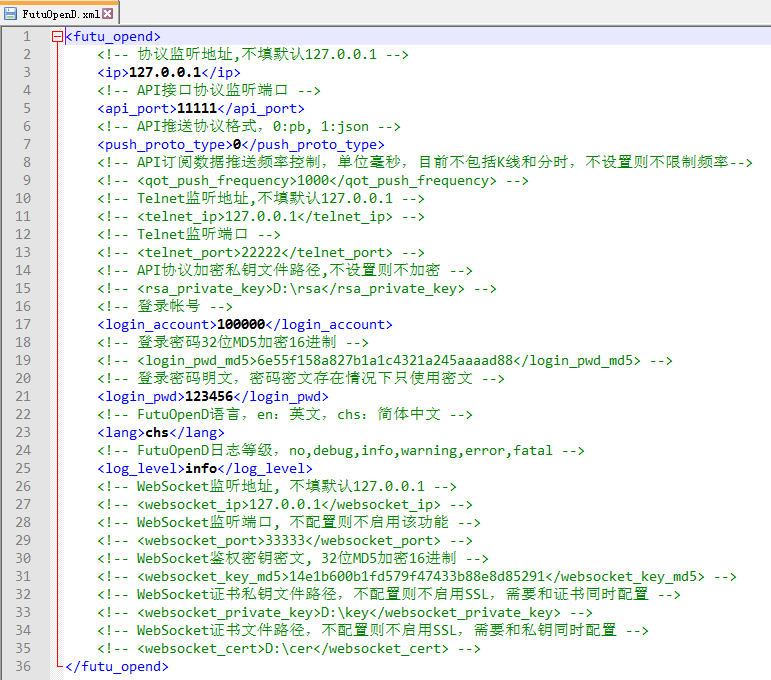
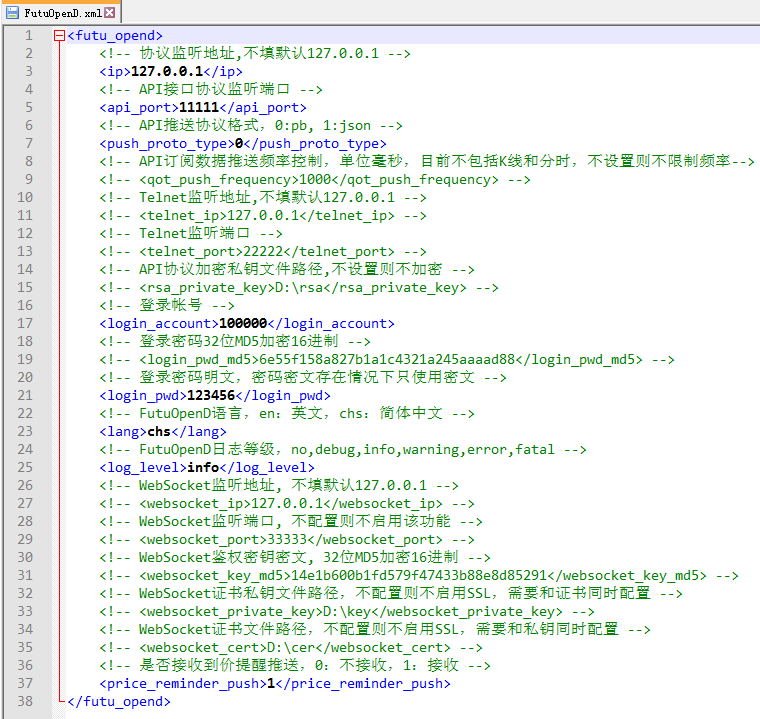
JS C++ 文档

Changed region(s): [[0.0, 0.0, 1.0, 1.0]]

diff --git a/doc_maker/source/conf.py b/doc_maker/source/conf.py
@@ -69,9 +69,9 @@ author = 'futu'
 # built documents.
 #
 # The short X.Y version.
-version = '3.18'
+version = '3.19'
 # The full version, including alpha/beta/rc tags.
-release = '3.18'
+release = '3.19'
 
 # The language for content autogenerated by Sphinx. Refer to documentation
 # for a list of supported languages.

diff --git a/doc_maker/source/intro/FutuOpenDGuide.rst b/doc_maker/source/intro/FutuOpenDGuide.rst
@@ -82,24 +82,25 @@ FutuOpenD配置
   ========================   ==================================================================================================   ================================================
   键值                       说明                                                                                                 是否可选配置项
   ========================   ==================================================================================================   ================================================
-  ip                         监听地址																			                  是，不设置则默认127.0.0.1	
+  ip                         监听地址                                                                                             是，不设置则默认127.0.0.1    
   api_port                   API协议接收端口                                                                                      是，可以命令行指定
   push_proto_type            API协议支持PB以及Json格式，PB：0，Json：1，推送类协议通过该配置决定包体格式                          是，不设置则默认PB格式
   qot_push_frequency         API订阅数据推送频率控制，单位毫秒，目前不包括K线和分时                                               是，不设置则不限制频率
   rsa_private_key            API协议RSA加密私钥（PKCS#1）文件绝对路径                                                             是，不设置则协议不加密
-  telnet_ip                  远程操作命令监听地址		                                                                          是，不设置则默认127.0.0.1	
+  telnet_ip                  远程操作命令监听地址                                                                                 是，不设置则默认127.0.0.1    
   telnet_port                远程操作命令监听端口                                                                                 是，不设置则不启用远程命令
   login_account              登录帐号                                                                                             是，可以使用证书登录或命令行输入
   login_pwd                  登录密码明文                                                                                         是，可以使用密文、证书登录或命令行输入
   login_pwd_md5              登录密码密文（32位MD5加密16进制），密文明文都存在情况下，只使用密文                                  是，可以使用明文、证书登录或命令行输入
   login_cert_file            证书文件绝对路径，除帐号密码外的另一种登录方式输入，若同时存在帐号密码登录配置项，只使用证书登录     是，可以使用帐号密码登录或命令行输入
   log_level                  日志级别，可填no，debug，info，warning，error，fatal                                                 是，默认info级别
-  simulate_trade		     是否启用模拟交易，关闭模拟交易可节省少量资源使用，可填enable，disable								  是，默认启用
+  simulate_trade             是否启用模拟交易，关闭模拟交易可节省少量资源使用，可填enable，disable                                是，默认启用
   websocket_ip               API协议监听地址，可选127.0.0.1（监听来自本地的连接）以及0.0.0.0（监听来自所有网卡的连接）            是，不设置则默认127.0.0.1 
   websocket_port             WebSocket服务监听端口                                                                                是，不设置则不启用该功能  
   websocket_private_key      WebSocket证书私钥文件路径，私钥不可设置密码，不配置则不启用SSL，需要和证书同时配置                   是，不设置则不启用SSL
   websocket_cert             WebSocket证书文件路径，不配置则不启用SSL，需要和私钥同时配置                                         是，不设置则不启用SSL
   websocket_key_md5          密钥密文（32位MD5加密16进制），用于JS接口连接时用于判断是否可信连接                                  是，不设置则不做验证
+  price_reminder_push        是否接收到价提醒推送，0：不接收，1：接收                                                             是，默认会推送
   ========================   ==================================================================================================   ================================================
 
 可视化FutuOpenD  
@@ -175,14 +176,15 @@ FutuOpenD配置
   lang                       FutuOpenD语言，en：英文，chs：简体中文                                                               是，不设置则默认简体中文
   api_port                   API协议接收端口                                                                                      是，不设置则使用配置文件配置项
   help                       输出启动命令行参数然后退出程序                                                                       是，不设置则正常启动FutuOpenD
-  log_level                  日志级别，可填no，debug，info，warning，error，fatal                                                      是，默认info级别
+  log_level                  日志级别，可填no，debug，info，warning，error，fatal                                                 是，默认info级别
   no_monitor                 是否启动守护进程，启动：0，不启动：1                                                                 是，默认带守护进程启动
-  simulate_trade             是否启用模拟交易，关闭模拟交易可节省少量资源使用，可填enable，disable                                 是，默认启用
+  simulate_trade             是否启用模拟交易，关闭模拟交易可节省少量资源使用，可填enable，disable                                是，默认启用
   websocket_ip               API协议监听地址，可选127.0.0.1（监听来自本地的连接）以及0.0.0.0（监听来自所有网卡的连接）            是，不设置则默认127.0.0.1    
   websocket_port             WebSocket服务监听端口                                                                                是，不设置则不启用该功能
   websocket_private_key      WebSocket证书私钥文件路径，不配置则不启用SSL，需要和证书同时配置                                     是，不设置则不启用SSL
   websocket_cert             WebSocket证书文件路径，不配置则不启用SSL，需要和私钥同时配置                                         是，不设置则不启用SSL
   websocket_key_md5          密钥密文（32位MD5加密16进制），用于JS接口连接时用于判断是否可信连接                                  是，不设置则不做验证
+  price_reminder_push        是否接收到价提醒推送，0：不接收，1：接收                                                             是，默认会推送
   ========================   ==================================================================================================   ================================================
 
 --------------

diff --git a/doc_maker/source/javascript/Quote_API.rst b/doc_maker/source/javascript/Quote_API.rst
@@ -38,16 +38,16 @@
   .. _GetUserSecurity: ../protocol/quote_protocol.html#qot-getusersecurity-proto-3213
   .. _ModifyUserSecurity: ../protocol/quote_protocol.html#qot-modifyusersecurity-proto-3214
   .. _RequestTradeDate: ../protocol/quote_protocol.html#qot-requesttradedate-proto-3219
-  .. _Notify: ../protocol/base_define.html#notify-proto-1003
-  .. _GetCodeChange: ../protocol/quote_protocol.html#qot-getcodechange-proto-3216
-  .. _GetIpoList: ../protocol/quote_protocol.html#qot-getipolist-proto-3217ipo
-  .. _GetFutureInfo: ../protocol/quote_protocol.html#qot-getfutureinfo-proto-3218
-  .. _UpdateBasicQot: ../protocol/quote_protocol.html#qot-updatebasicqot-proto-3005
-  .. _UpdateKL: ../protocol/quote_protocol.html#qot-updatekl-proto-3007k
-  .. _UpdateRT: ../protocol/quote_protocol.html#qot-updatert-proto-3009
-  .. _UpdateTicker: ../protocol/quote_protocol.html#qot-updateticker-proto-3011
-  .. _UpdateOrderBook: ../protocol/quote_protocol.html#qot-updateorderbook-proto-3013
-  .. _UpdateBroker: ../protocol/quote_protocol.html#qot-updatebroker-proto-3015
+  .. _SetPriceReminder: ../protocol/quote_protocol.html#qot-setpricereminder-proto-3220
+  .. _GetPriceReminder: ../protocol/quote_protocol.html#qot-getpricereminder-proto-3221
+  .. _OnPush_Notify: ../protocol/base_define.html#notify-proto-1003
+  .. _OnPush_UpdateBasicQot: ../protocol/quote_protocol.html#qot-updatebasicqot-proto-3005
+  .. _OnPush_UpdateKL: ../protocol/quote_protocol.html#qot-updatekl-proto-3007k
+  .. _OnPush_UpdateRT: ../protocol/quote_protocol.html#qot-updatert-proto-3009
+  .. _OnPush_UpdateTicker: ../protocol/quote_protocol.html#qot-updateticker-proto-3011
+  .. _OnPush_UpdateOrderBook: ../protocol/quote_protocol.html#qot-updateorderbook-proto-3013
+  .. _OnPush_UpdateBroker: ../protocol/quote_protocol.html#qot-updatebroker-proto-3015
+  .. _OnPush_UpdatePriceReminder: ../protocol/quote_protocol.html#qot-updatepricereminder-proto-3019
   
 ---------------------------------------------------
 
@@ -89,6 +89,8 @@ GetIpolist_                         获取ipo数据
 GetCodeChange_                      获取股票代码变更
 GetFutureInfo_                      获取期货合约资料
 RequestTradeDate_                   获取市场交易日，在线拉取不在本地计算
+SetPriceReminder_                   设置到价提醒
+GetPriceReminder_                   获取到价提醒
 ================================    ==============================================
 
 

diff --git a/doc_maker/source/cpp/qot.rst b/doc_maker/source/cpp/qot.rst
@@ -44,6 +44,8 @@
   .. _GetIpoList: ../protocol/quote_protocol.html#qot-getipolist-proto-3217ipo
   .. _GetFutureInfo: ../protocol/quote_protocol.html#qot-getfutureinfo-proto-3218
   .. _RequestTradeDate: ../protocol/quote_protocol.html#qot-requesttradedate-proto-3219
+  .. _SetPriceReminder: ../protocol/quote_protocol.html#qot-setpricereminder-proto-3220
+  .. _GetPriceReminder: ../protocol/quote_protocol.html#qot-getpricereminder-proto-3221
   .. _OnPush_Notify: ../protocol/base_define.html#notify-proto-1003
   .. _OnPush_UpdateBasicQot: ../protocol/quote_protocol.html#qot-updatebasicqot-proto-3005
   .. _OnPush_UpdateKL: ../protocol/quote_protocol.html#qot-updatekl-proto-3007k
@@ -51,7 +53,7 @@
   .. _OnPush_UpdateTicker: ../protocol/quote_protocol.html#qot-updateticker-proto-3011
   .. _OnPush_UpdateOrderBook: ../protocol/quote_protocol.html#qot-updateorderbook-proto-3013
   .. _OnPush_UpdateBroker: ../protocol/quote_protocol.html#qot-updatebroker-proto-3015
-  
+  .. _OnPush_UpdatePriceReminder: ../protocol/quote_protocol.html#qot-updatepricereminder-proto-3019
 ---------------------------------------------------
 主要函数列表
 ---------------
@@ -94,6 +96,8 @@ GetIpolist_                         获取ipo数据                             
 GetCodeChange_                      获取股票代码变更                                   OnReply_GetCodeChange
 GetFutureInfo_                      获取期货合约资料                                   OnReply_GetFutureInfo
 RequestTradeDate_                   获取市场交易日，在线拉取不在本地计算               OnReply_RequestTradeDate
+SetPriceReminder_                   设置到价提醒                                       OnReply_SetPriceReminder
+GetPriceReminder_                   获取到价提醒                                       OnReply_GetPriceReminder
 ================================    ==============================================   ==============================
 
 FTSPI_Qot行情推送接收接口函数
@@ -108,5 +112,6 @@ OnPush_UpdateRT_                       推送分时
 OnPush_UpdateTicker_                   推送逐笔
 OnPush_UpdateOrderBook_                推送买卖盘
 OnPush_UpdateBroker_                   推送经纪队列
+OnPush_UpdatePriceReminder_            推送到价提醒
 ==================================    ================================================= 
 

diff --git a/doc_maker/source/protocol/quote_protocol.rst b/doc_maker/source/protocol/quote_protocol.rst
@@ -2485,7 +2485,6 @@
 	
 ------------------------------------------------------------------------
 
-
 `Qot_GetPriceReminder.proto <https://github.com/FutunnOpen/py-futu-api/tree/master/futu/common/pb/Qot_GetPriceReminder.proto>`_ - 3221获取到价提醒
 ------------------------------------------------------------------------------------------------------------------------------------------------------------------
 
@@ -2547,3 +2546,48 @@
 	* 提醒类型参考 `PriceReminderType <base_define.html#priceremindertype>`_
 	* 提醒频率类型参考 `PriceReminderFreq <base_define.html#pricereminderfreq>`_
 	* 限频接口：30秒内最多10次	
+	
+	
+`Qot_UpdatePriceReminder.proto <https://github.com/FutunnOpen/py-futu-api/tree/master/futu/common/pb/Qot_UpdatePriceReminder.proto>`_ - 3221获取到价提醒
+------------------------------------------------------------------------------------------------------------------------------------------------------------------
+
+.. code-block:: protobuf
+
+	syntax = "proto2";
+	package Qot_UpdatePriceReminder;
+	option java_package = "com.futu.openapi.pb";
+
+	import "Common.proto";
+	import "Qot_Common.proto";
+
+	enum MarketStatus
+	{
+		MarketStatus_Unknow = 0;
+		MarketStatus_Open = 1; // 盘中
+		MarketStatus_USPre = 2;  // 美股盘前
+		MarketStatus_USAfter = 3; // 美股盘后
+	}
+
+	message S2C
+	{
+		required Qot_Common.Security security = 1; //股票
+		required double price = 2; //价格
+		required double changeRate = 3; //涨跌幅
+		required int32 marketStatus = 4; //市场状态
+		required string content = 5; //内容
+		required string note = 6; //备注
+	}
+
+	message Response
+	{
+		required int32 retType = 1 [default = -400]; //RetType,返回结果
+		optional string retMsg = 2;
+		optional int32 errCode = 3;
+		
+		optional S2C s2c = 4;
+	}
+
+
+.. note::
+	
+	* 股票结构参考 `Security <base_define.html#security>`_

diff --git a/doc_maker/source/api/Quote_API.rst b/doc_maker/source/api/Quote_API.rst
@@ -2609,15 +2609,15 @@ on_recv_rsp
  
  成功时返回(RET_OK, '', data), data为DataFrame类型，字段如下
     
-    =========================   ==================   ========================================
-    参数                         类型                 说明
-    =========================   ==================   ========================================
-    code                        str                  股票代码
-    price                       float                当前价格
-    change_rate                 str                  当前涨跌幅
-    market_status               str                  触发的时间段，盘前、盘中、盘后
-    content                     str                  到价提醒文字内容
-    note                        str                  备注，最多10个字符
-    =========================   ==================   ========================================
+    =========================   =========================   ========================================
+    参数                         类型                         说明
+    =========================   =========================   ========================================
+    code                        str                          股票代码
+    price                       float                        当前价格
+    change_rate                 str                          当前涨跌幅
+    market_status               PriceReminderMarketStatus    触发的时间段，盘前、盘中、盘后
+    content                     str                          到价提醒文字内容
+    note                        str                          备注，最多10个字符
+    =========================   =========================   ========================================
 
           
